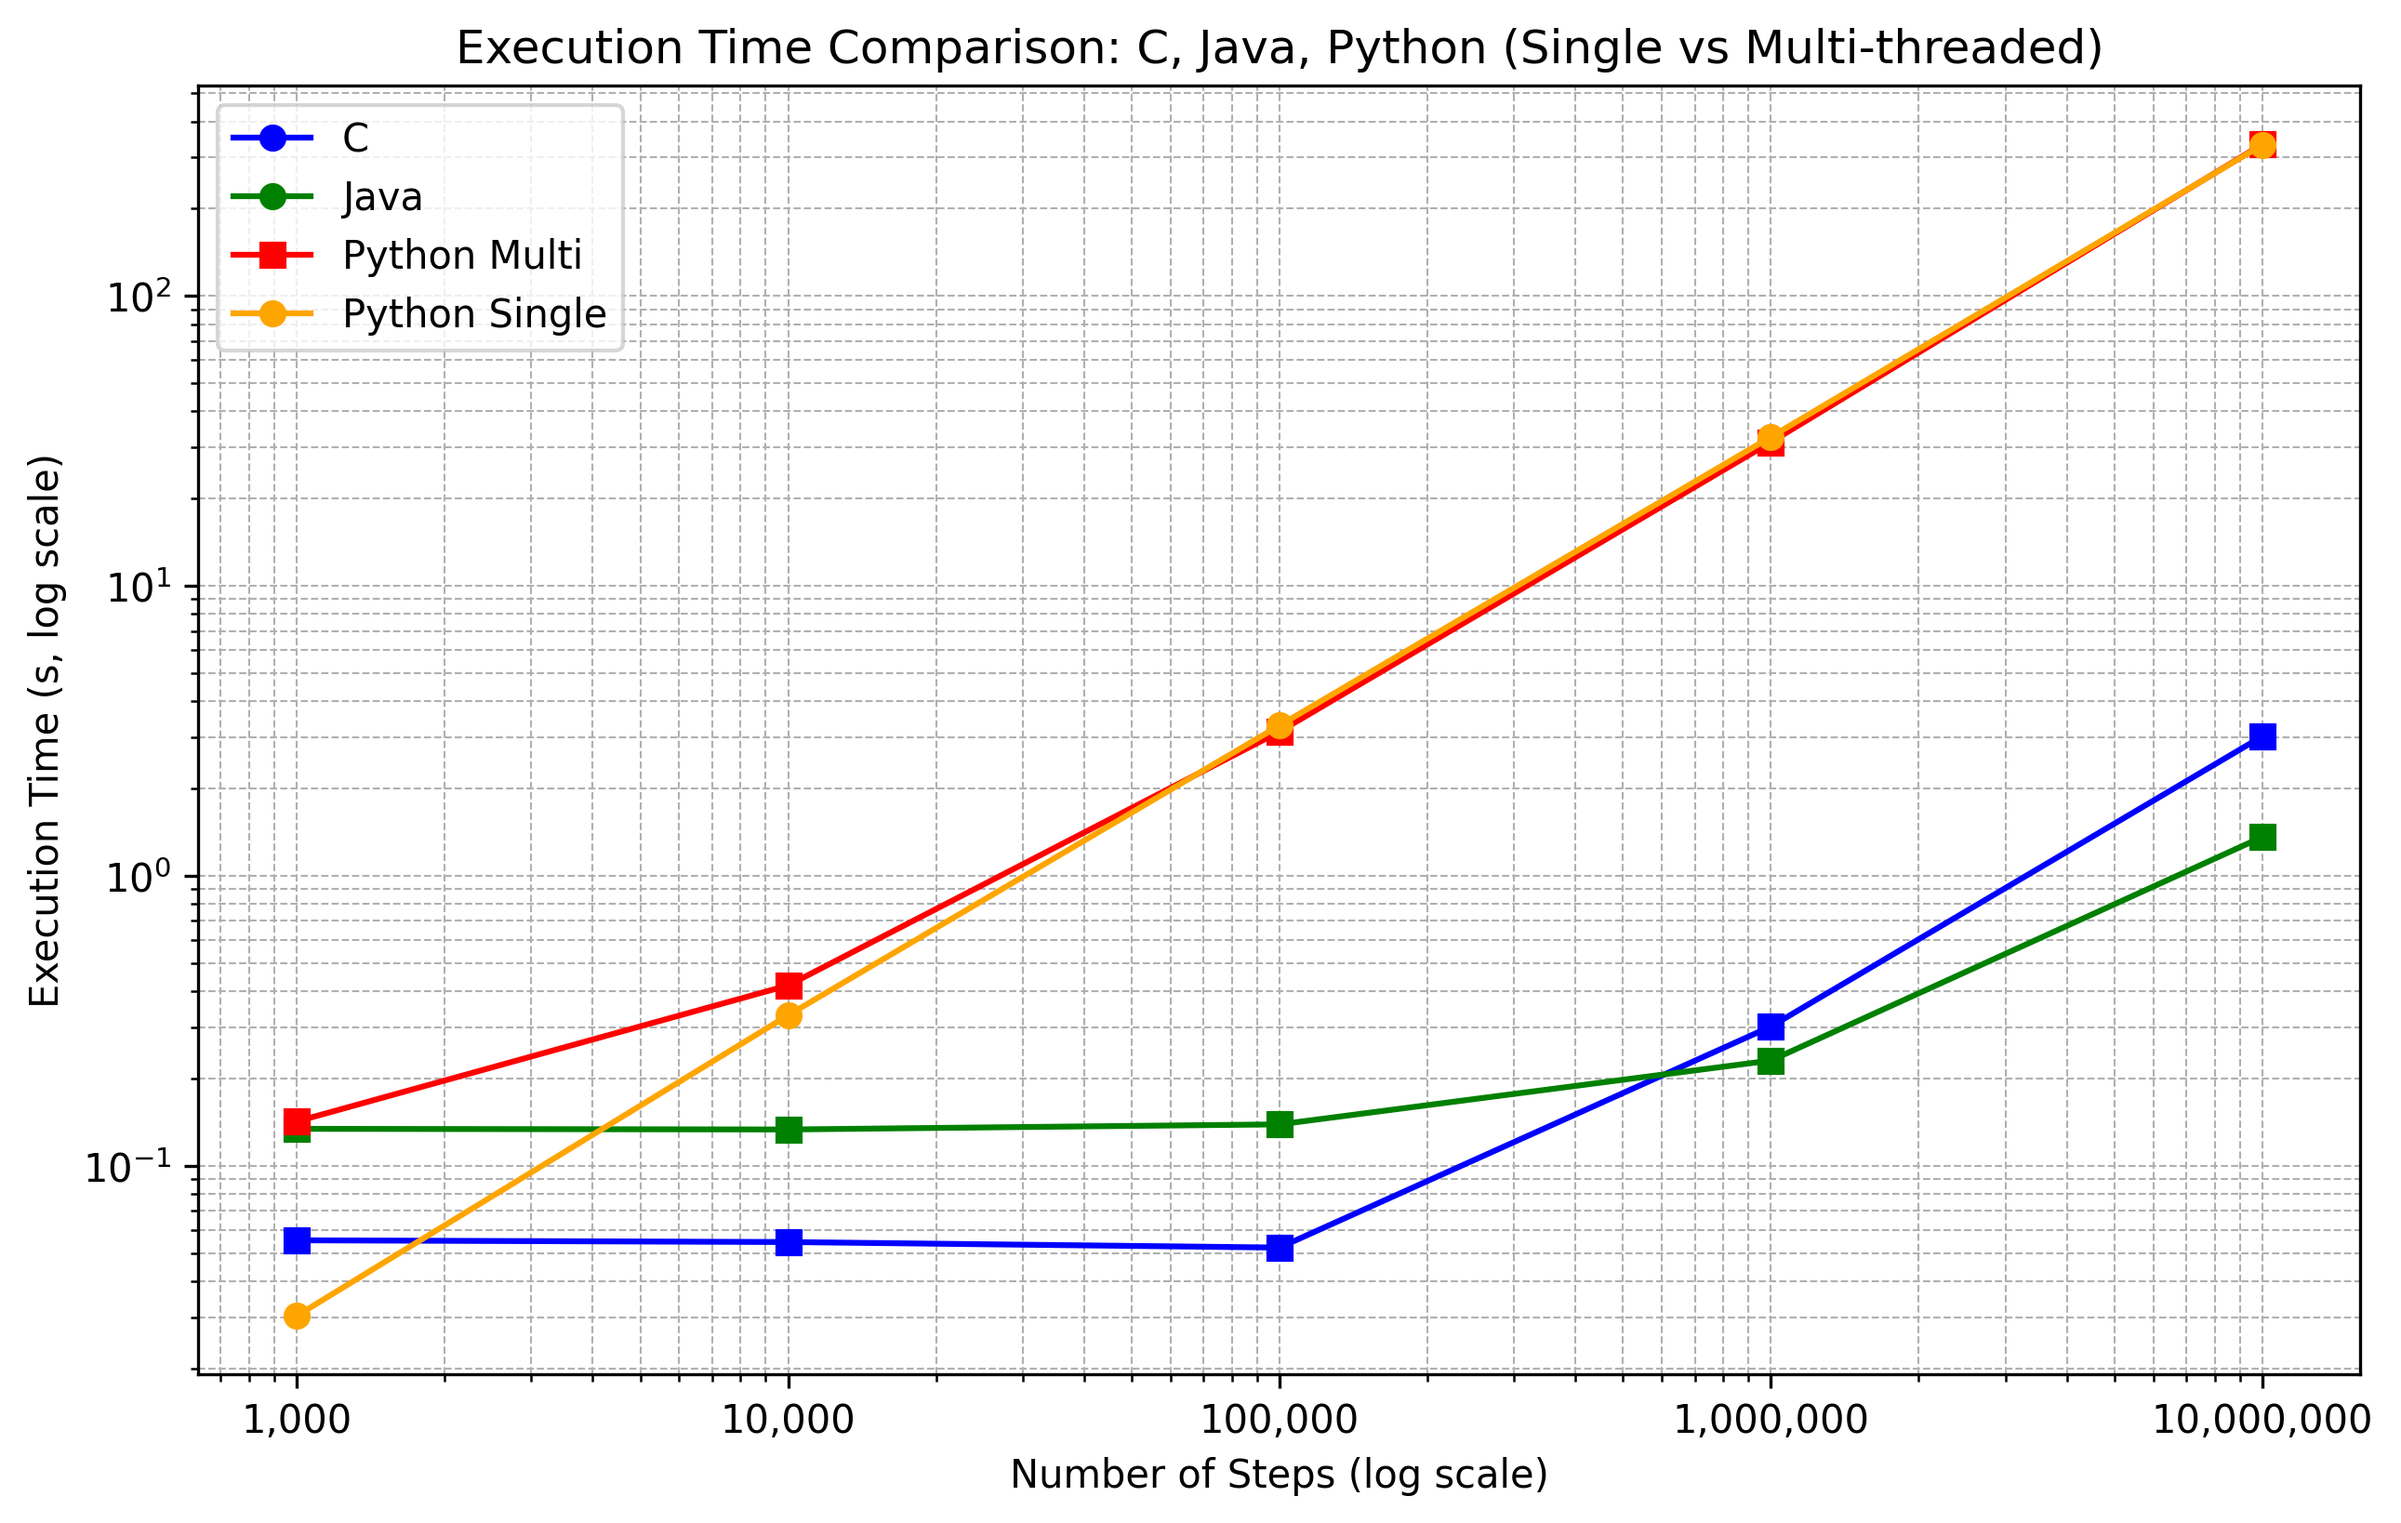
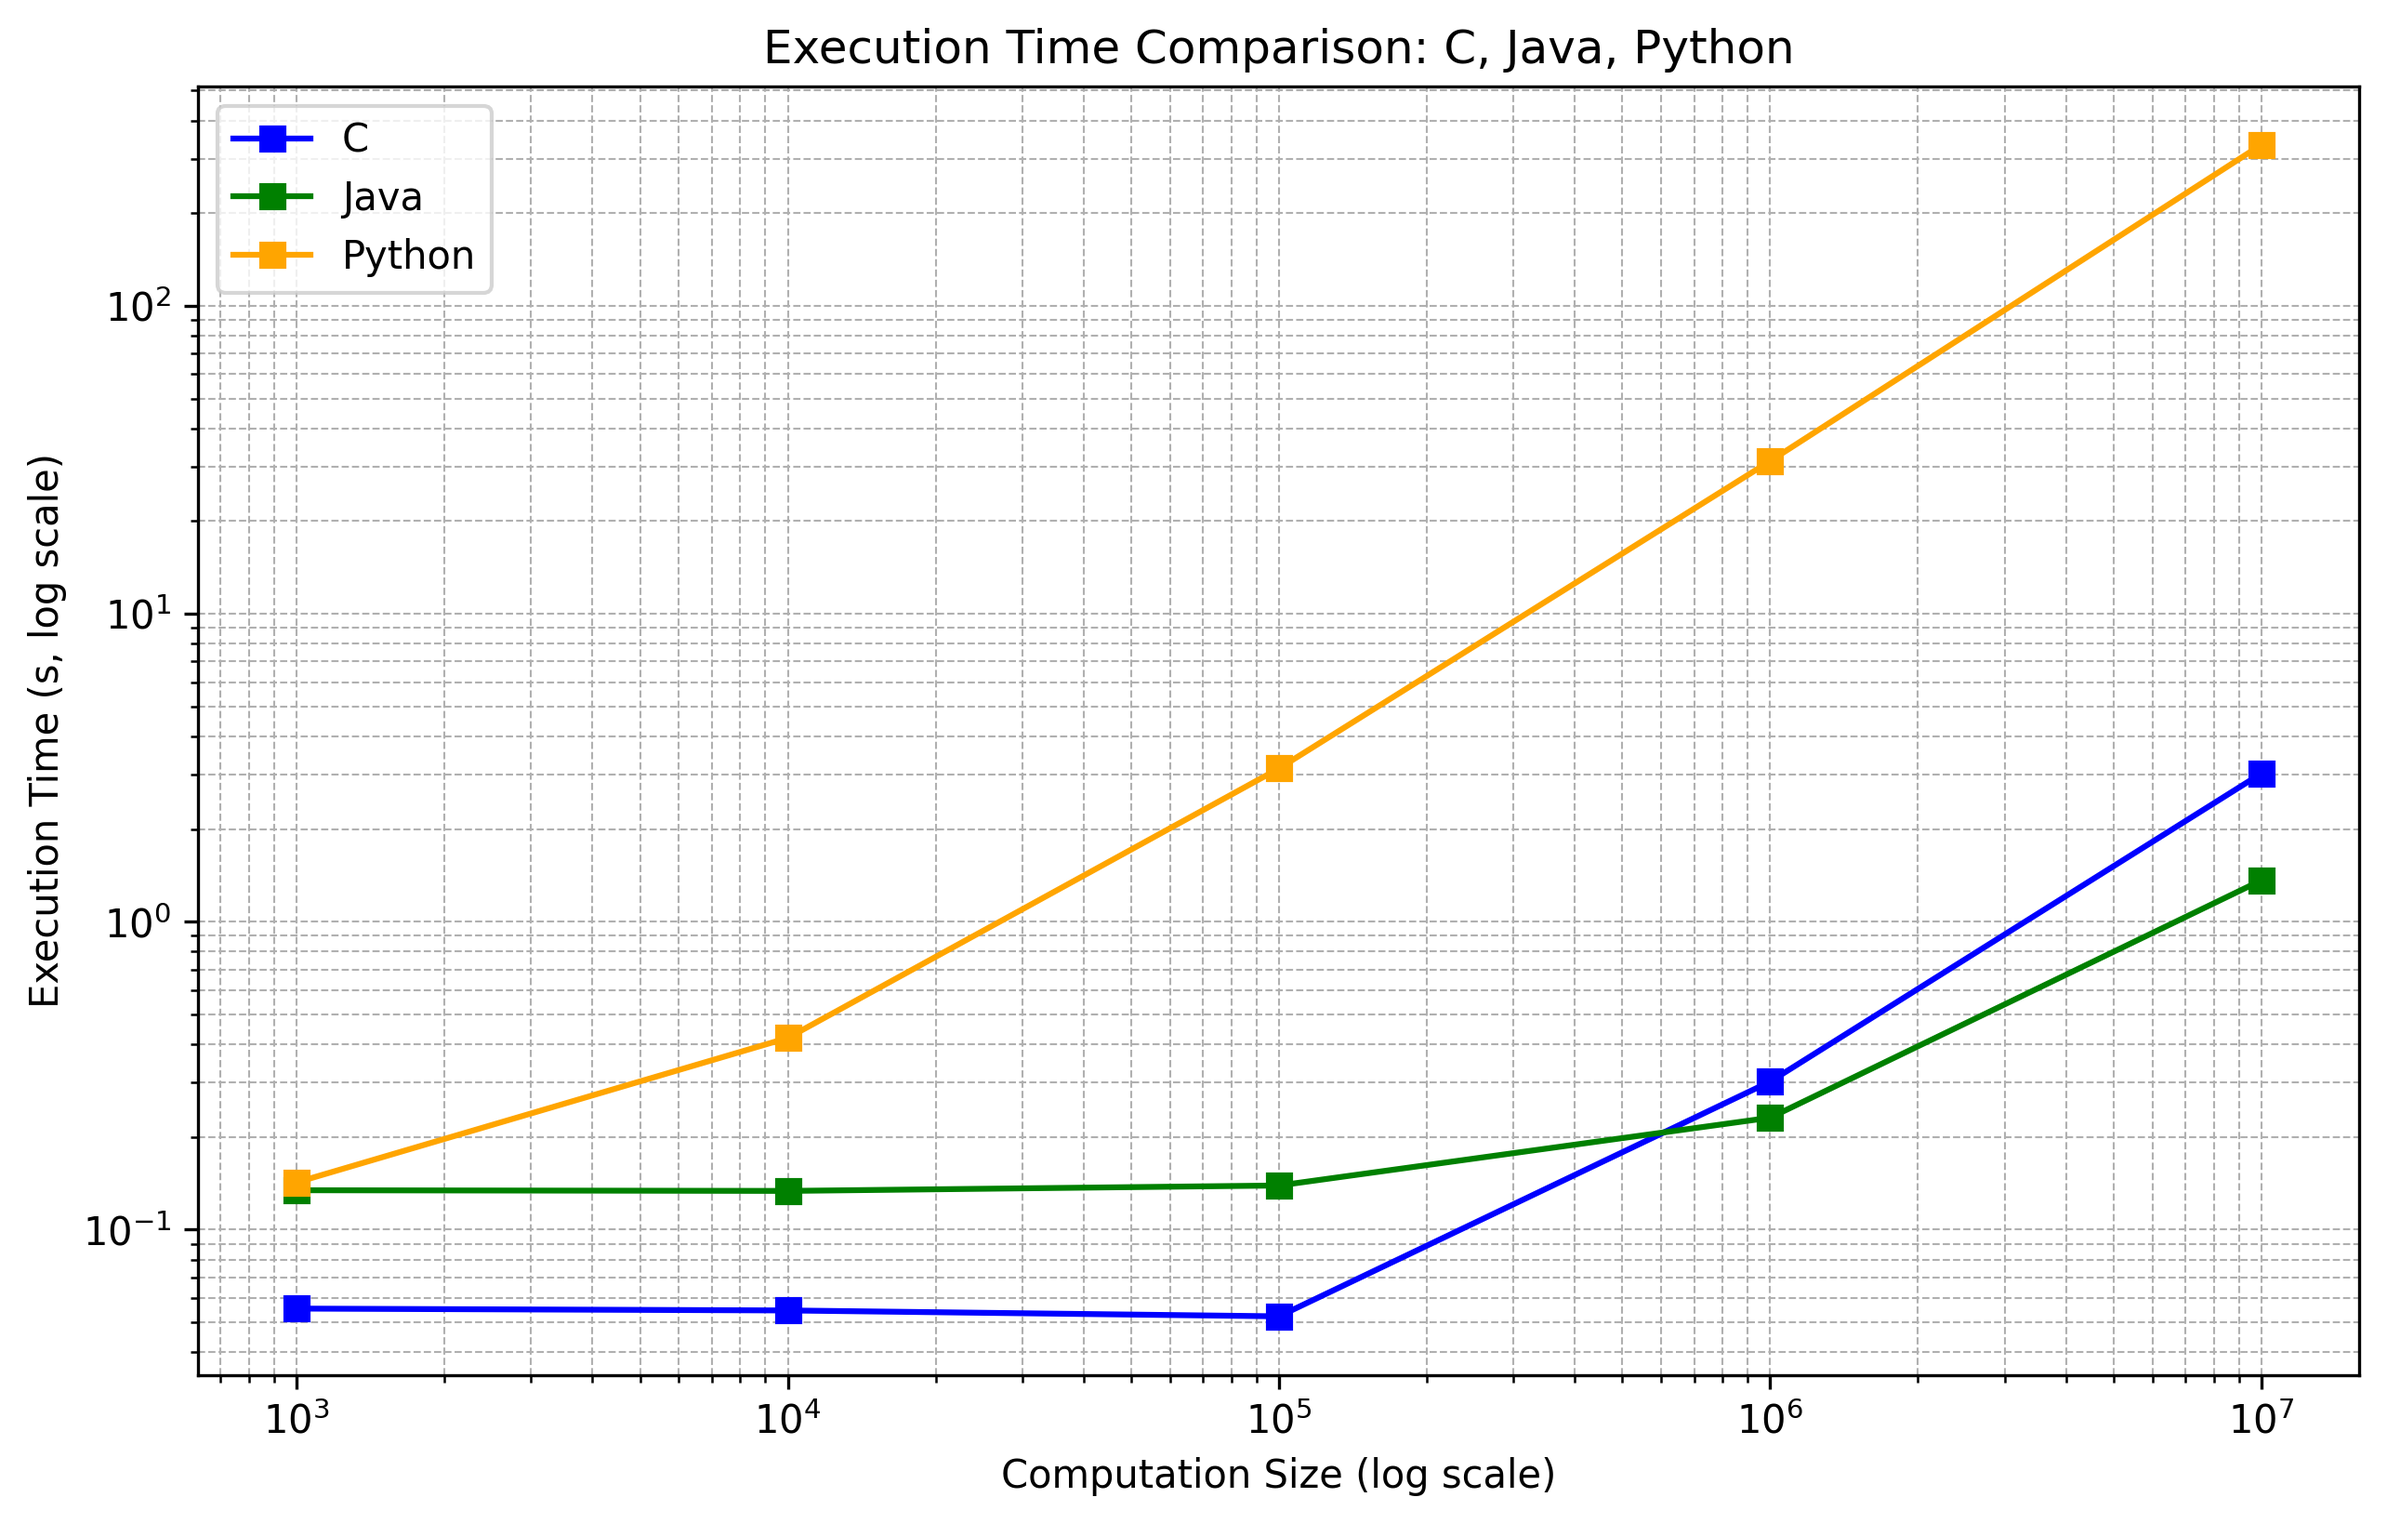
hej

Changed region(s): [[0.0312, 0.0, 0.9969, 0.9963], [0.5919, 0.1245, 0.6231, 0.1557], [0.1558, 0.4982, 0.1869, 0.5293]]

diff --git a/plotter.py b/plotter.py
@@ -9,8 +9,8 @@ df[['language', 'threading', 'size']] = df['dataset'].str.split('_', expand=True
 df['size'] = df['size'].astype(int)
 df['time (s)'] = df['time (s)'].astype(float)
 
-# Filter out c_single and java_single
-df = df[~((df['language'].isin(['c', 'java'])) & (df['threading'] == 'single'))]
+# Filter out single
+df = df[~((df['language'].isin(['c', 'java','python'])) & (df['threading'] == 'single'))]
 
 # Set up the plot
 plt.figure(figsize=(10, 6))
@@ -20,19 +20,16 @@ markers = {'single': 'o', 'multi': 's'}
 colors = {
     'c': 'blue', 
     'java': 'green', 
-    'python_single': 'orange', 
-    'python_multi': 'red'
+    'python': 'orange',
 }
 
 # Plot each combination with title case labels
 for lang in df['language'].unique():
     for thread in df['threading'].unique():
         subset = df[(df['language'] == lang) & (df['threading'] == thread)]
-        key = f"{lang}_{thread}" if lang == 'python' else lang
-        if lang == 'python':
-            label = f"{lang} {thread}".replace('_', ' ').title()  # Python Single / Python Multi
-        else:
-            label = lang.title()  # C / Java
+        #key = f"{lang}_{thread}"  if lang == 'python' else lang
+        key = lang
+        label = lang.title()
         plt.plot(subset['size'], subset['time (s)'], 
                  marker=markers[thread], color=colors[key], label=label)
 
@@ -41,13 +38,13 @@ plt.xscale('log')
 plt.yscale('log')
 
 # Labels, title, legend
-plt.xlabel("Number of Steps (log scale)")
+plt.xlabel("Computation Size (log scale)")
 plt.ylabel("Execution Time (s, log scale)")
-plt.title("Execution Time Comparison: C, Java, Python (Single vs Multi-threaded)")
+plt.title("Execution Time Comparison: C, Java, Python")
 
 # Update x-axis ticks
-plt.xticks([1000, 10000, 100000, 1000000, 10000000],
-           ['1,000', '10,000', '100,000', '1,000,000', '10,000,000'])
+#plt.xticks([1000, 10000, 100000, 1000000, 10000000],
+#           ['1,000', '10,000', '100,000', '1,000,000', '10,000,000'])
 
 # Simplify legend
 handles, labels = plt.gca().get_legend_handles_labels()

diff --git a/plotter_indiv.py b/plotter_indiv.py
@@ -1,0 +1,64 @@
+import matplotlib.pyplot as plt
+import pandas as pd
+
+# Read CSV
+df = pd.read_csv('dataset2.csv')
+
+# Parse dataset column
+df[['language', 'threading', 'size']] = df['dataset'].str.split('_', expand=True)
+df['size'] = df['size'].astype(int)
+df['time (s)'] = df['time (s)'].astype(float)
+
+# Languages to plot
+languages = df['language'].unique()
+
+# Colors for single vs multi
+colors = {
+    'single': 'orange',
+    'multi': 'red'
+}
+
+for lang in languages:
+    lang_df = df[df['language'] == lang]
+
+    # Skip if only one threading type exists
+    if lang_df['threading'].nunique() < 2:
+        continue
+
+    plt.figure(figsize=(8, 5))
+
+    for thread in ['single', 'multi']:
+        subset = lang_df[lang_df['threading'] == thread]
+        if subset.empty:
+            continue
+
+        plt.plot(
+            subset['size'],
+            subset['time (s)'],
+            marker='o',
+            color=colors[thread],
+            label=thread.title()
+        )
+
+    # Log scales
+    plt.xscale('log')
+    plt.yscale('log')
+
+    # Labels & title
+    plt.xlabel("Computation Size (log scale)")
+    plt.ylabel("Execution Time (s, log scale)")
+    plt.title(f"{lang.title()}: Single vs Multi-threaded")
+
+    # X ticks
+    #plt.xticks(
+    #    [1000, 10000, 100000, 1000000, 10000000],
+    #    ['1k', '10k', '100k', '1M', '10M']
+    #)
+
+    plt.legend()
+    plt.grid(True, which="both", ls="--", lw=0.5)
+
+    # Save figure
+    filename = f"{lang}_single_vs_multi.png"
+    plt.savefig(filename, dpi=300, bbox_inches='tight')
+    plt.show()
